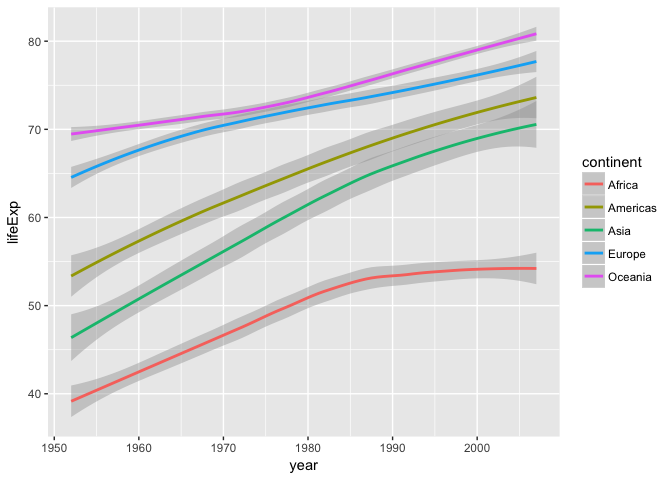
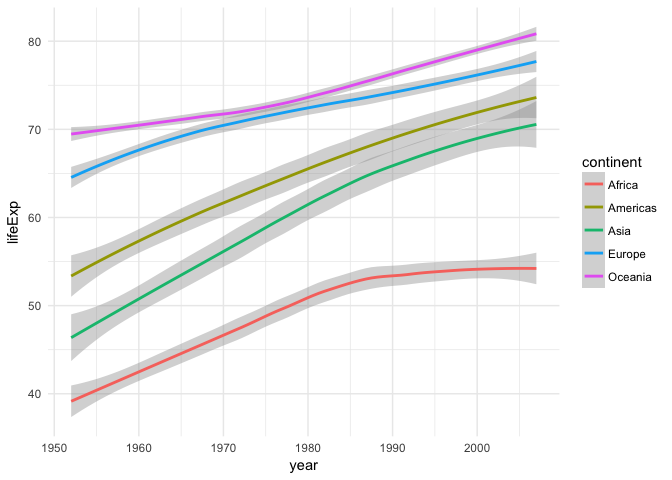
added content

diff --git a/hw-2/hw_02_gapminder_dplyr.md b/hw-2/hw_02_gapminder_dplyr.md
@@ -67,7 +67,9 @@ class(data)
 
     ## [1] "tbl_df"     "tbl"        "data.frame"
 
--   How many variables/columns? There are 6 variables/columns in the gapminder data set.
+-   How many variables/columns?
+
+There are 6 variables/columns in the gapminder data set.
 
 ``` r
 ncol(data)
@@ -166,7 +168,7 @@ typeof(data$gdpPercap)
 Explore individual variables
 ============================
 
--   Pick at least one categorical variable and at least one quantitative variable to explore. I chose to use the variables **"continent"** and **gdpPercap**
+-   Pick at least one categorical variable and at least one quantitative variable to explore. I chose to use the variables **"continent"** and **"gdpPercap"**
 -   What are possible values (or range, whichever is appropriate) of each variable?
 -   What values are typical? What’s the spread? What’s the distribution? Etc., tailored to the variable at hand. Feel free to use summary stats, tables, figures. We’re NOT expecting high production value (yet).
 
@@ -204,11 +206,15 @@ hist(data$gdpPercap)
 Explore various plot types
 ==========================
 
+A scatter plot of lifeExp as a function of gdpPercap. The points are coloured by continent and the x axis is a log scale for easier readability.
+
 ``` r
 ggplot(gapminder, aes(gdpPercap, lifeExp, colour=continent)) + geom_point() + scale_x_log10()
 ```
 
 ![](hw_02_gapminder_dplyr_files/figure-markdown_github-ascii_identifiers/unnamed-chunk-17-1.png)
+
+Here I filtered the data to only get rows where the continent was either 'Americas' or 'Europe' and where the year was betwenn 1950 and 2000. I then selected columns from this filtered dataset and piped that data into ggplot. I then plotted gdpPercap by year and grouped the points by country. I then coloured the points by continent and added lines through the points using the geom\_smooth() line.
 
 ``` r
 filter(gapminder,
@@ -222,8 +228,10 @@ ggplot(aes(year, gdpPercap, group=country, colour=continent)) + geom_point() + g
 
 ![](hw_02_gapminder_dplyr_files/figure-markdown_github-ascii_identifiers/unnamed-chunk-18-1.png)
 
+For the next two plots I decided to plot both gdpPercap and lifeExp by year. I grouped the data by continent and coloured the lines by continent as well.
+
 ``` r
-ggplot(gapminder, aes(year, lifeExp, colour=continent)) + geom_smooth() 
+ggplot(gapminder, aes(year, lifeExp, colour=continent)) + geom_smooth() +theme_minimal()
 ```
 
     ## `geom_smooth()` using method = 'loess'
@@ -238,13 +246,18 @@ ggplot(gapminder, aes(year, gdpPercap, colour=continent)) + geom_smooth()
 
 ![](hw_02_gapminder_dplyr_files/figure-markdown_github-ascii_identifiers/unnamed-chunk-20-1.png)
 
+Here Ic reated a bar graph of the gdpPercap for each continent, for the year 1992. I used filter, select, and piping once again to feed the data into ggplot.
+
 ``` r
 filter(gapminder, year == 1992) %>%
 select (country, continent, gdpPercap) %>%
-ggplot(aes(continent, gdpPercap)) + geom_col()
+ggplot(aes(continent, gdpPercap)) + geom_col() + theme_bw()
 ```
 
-![](hw_02_gapminder_dplyr_files/figure-markdown_github-ascii_identifiers/unnamed-chunk-21-1.png) \# But I want to do more!
+![](hw_02_gapminder_dplyr_files/figure-markdown_github-ascii_identifiers/unnamed-chunk-21-1.png)
+
+But I want to do more!
+======================
 
 ``` r
 filter(gapminder, country == c("Rwanda","Afghanistan"))
@@ -291,7 +304,22 @@ filter(gapminder, country == "Rwanda" | country == "Afghanistan")
 
 This selects all rows where the country is equal to Afghanistan OR Rwanda as intended.
 
-That is all of 'the more' that I would like to do!
+That is all of the 'more' that I would like to do!
 
 Report your process
 ===================
+
+-   Reflect on what was hard/easy It was difficult remembering some of the syntax for ggplot2 and some of the functions that we had used in class. I had to go back to the code from the excercises in order to remember the syntax. The data smelling was fairly straight forward.
+-   problems you solved Most of the problems that I solved throughout the assignment were to do with having the right elements in the right place when creating the plots.
+-   helpful tutorials you read: [Tutorial for bar graph](http://ggplot2.tidyverse.org/reference/geom_bar.html), [Tutorial for ggplot2 themes](https://stackoverflow.com/questions/10861773/remove-grid-background-color-and-top-and-right-borders-from-ggplot2)
+
+-   What things were hard, even though you saw them in class? I found it hard to customize the plots the way that I wanted them to look and group the data by the proper variables.
+-   What was easy(-ish) even though we haven’t done it in class? I found that it was easy to add additional layers on to the plots and change the theme.
+
+Workflow:
+=========
+
+-   I edited my existing homework 01 repo and created sub-folders within it for each weeks homework. I also created a .README file for each new folder and described the contents on that page.
+-   I edied the .README file for the hw-02 folder through RStudio using the project that I created last week
+-   I made a new RMarkdown file for the homework 2 assignment and added content
+-   I then used the recommended workflow of saving changes, pulling from GitHub, commiting changes, and then pushing to GitHub from my local machine
